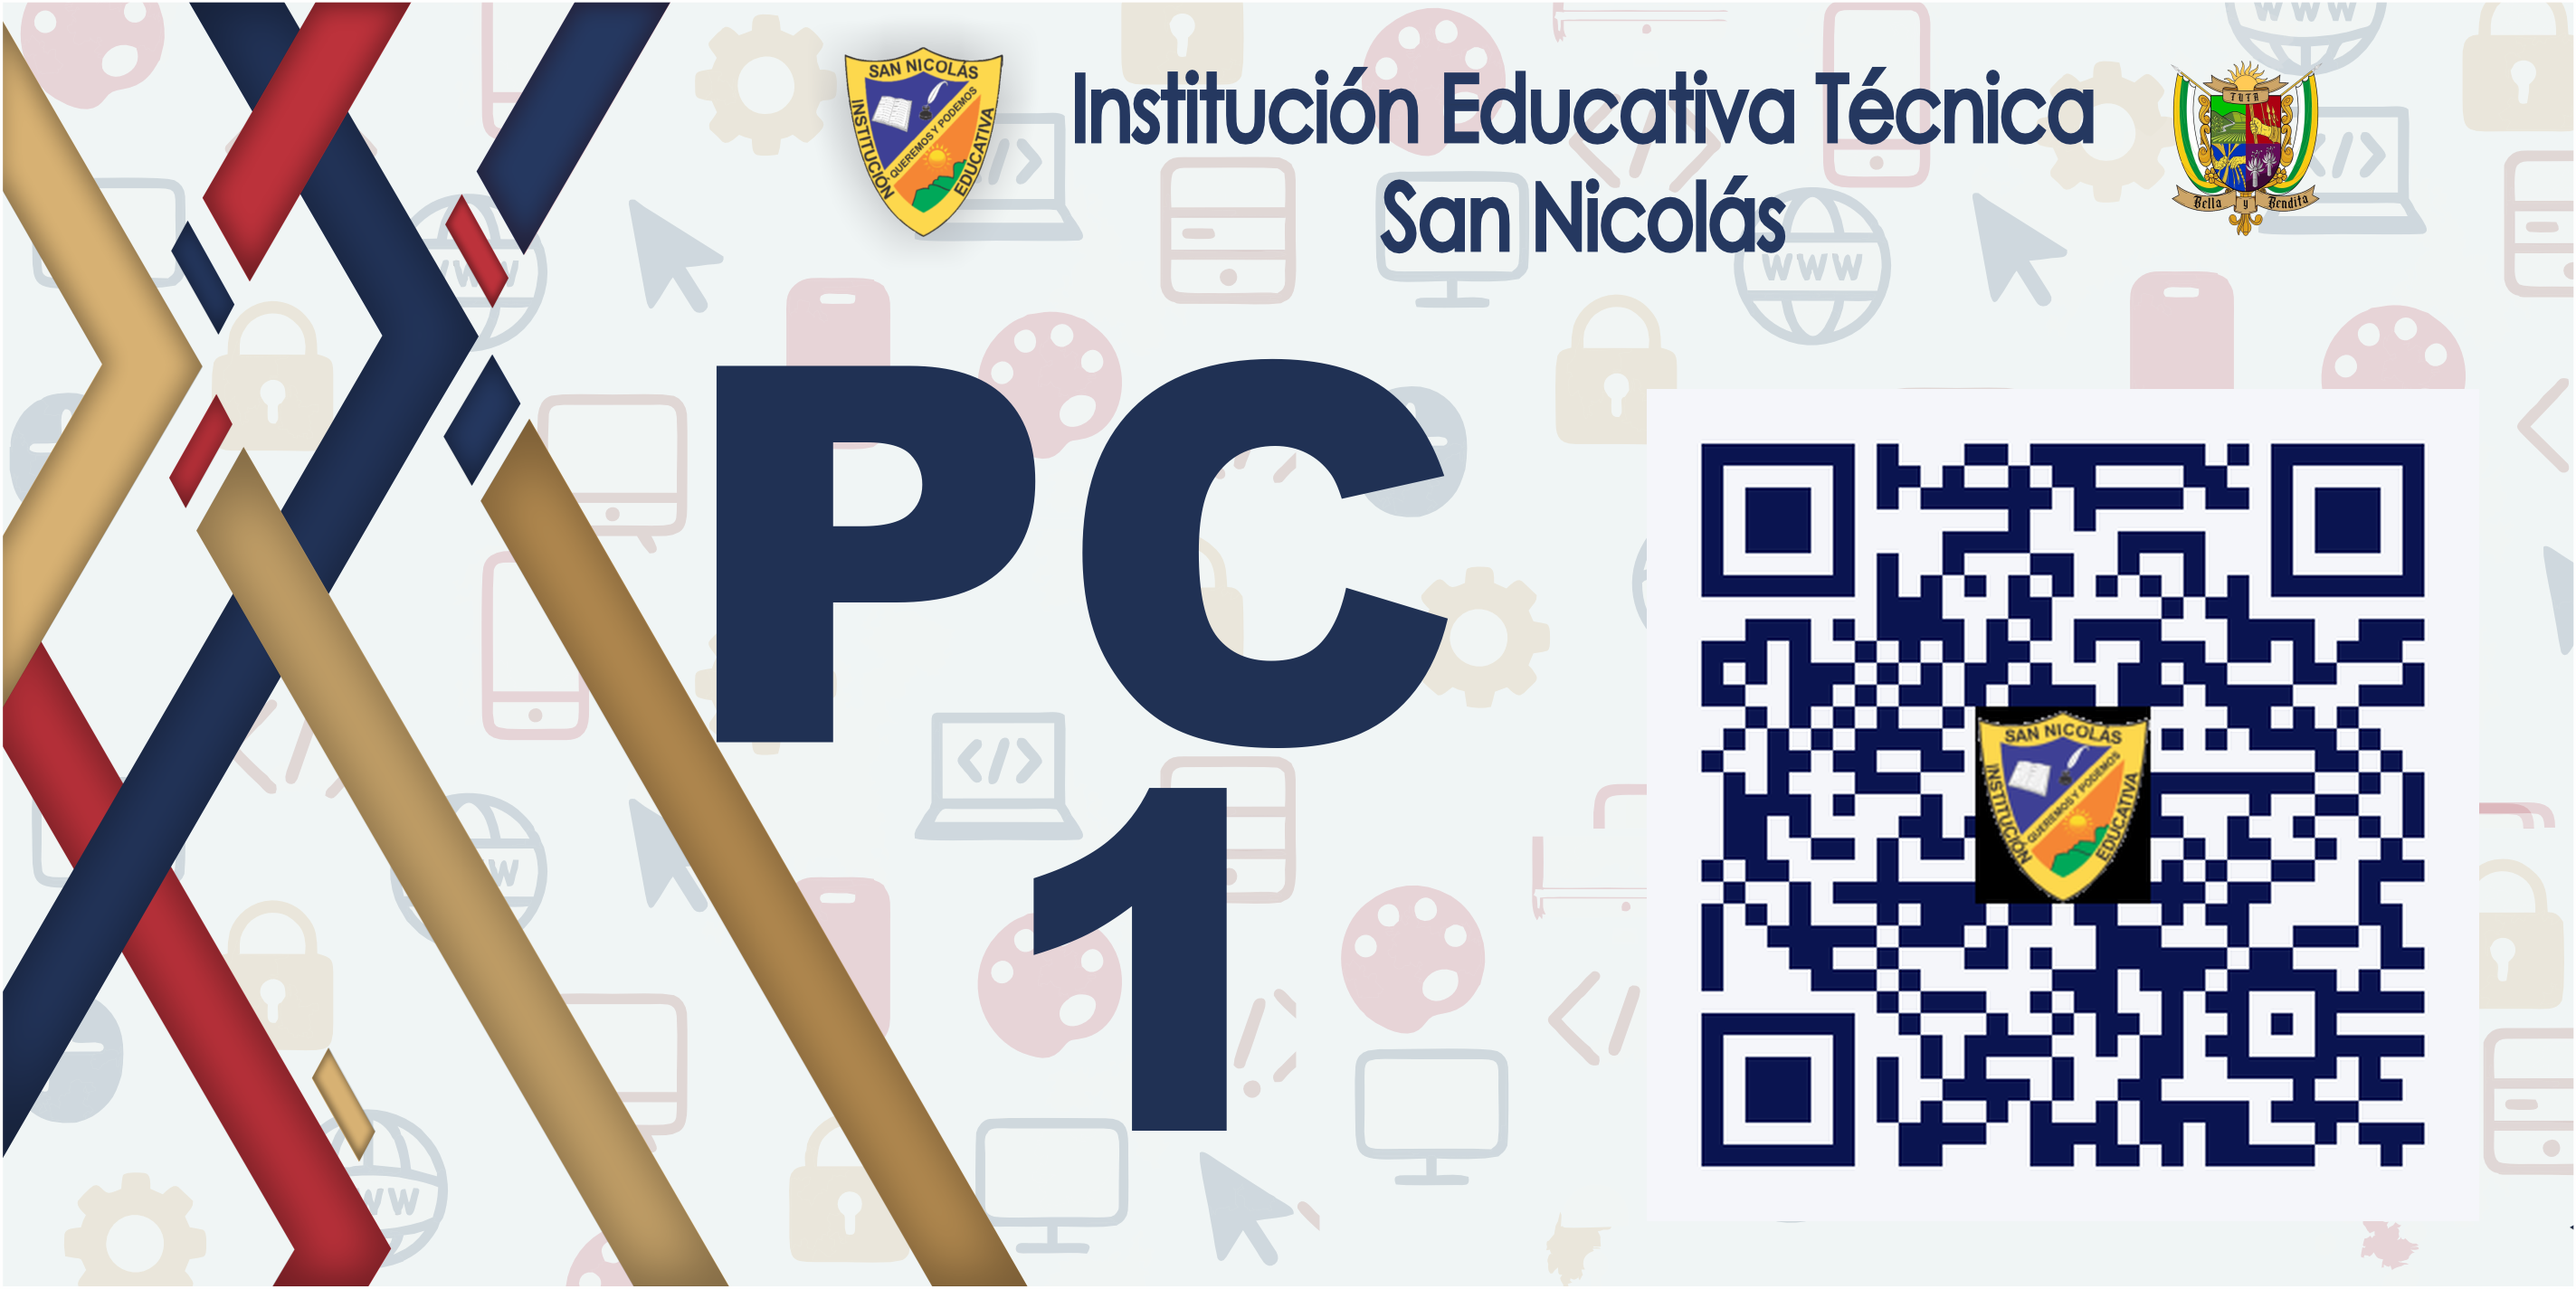
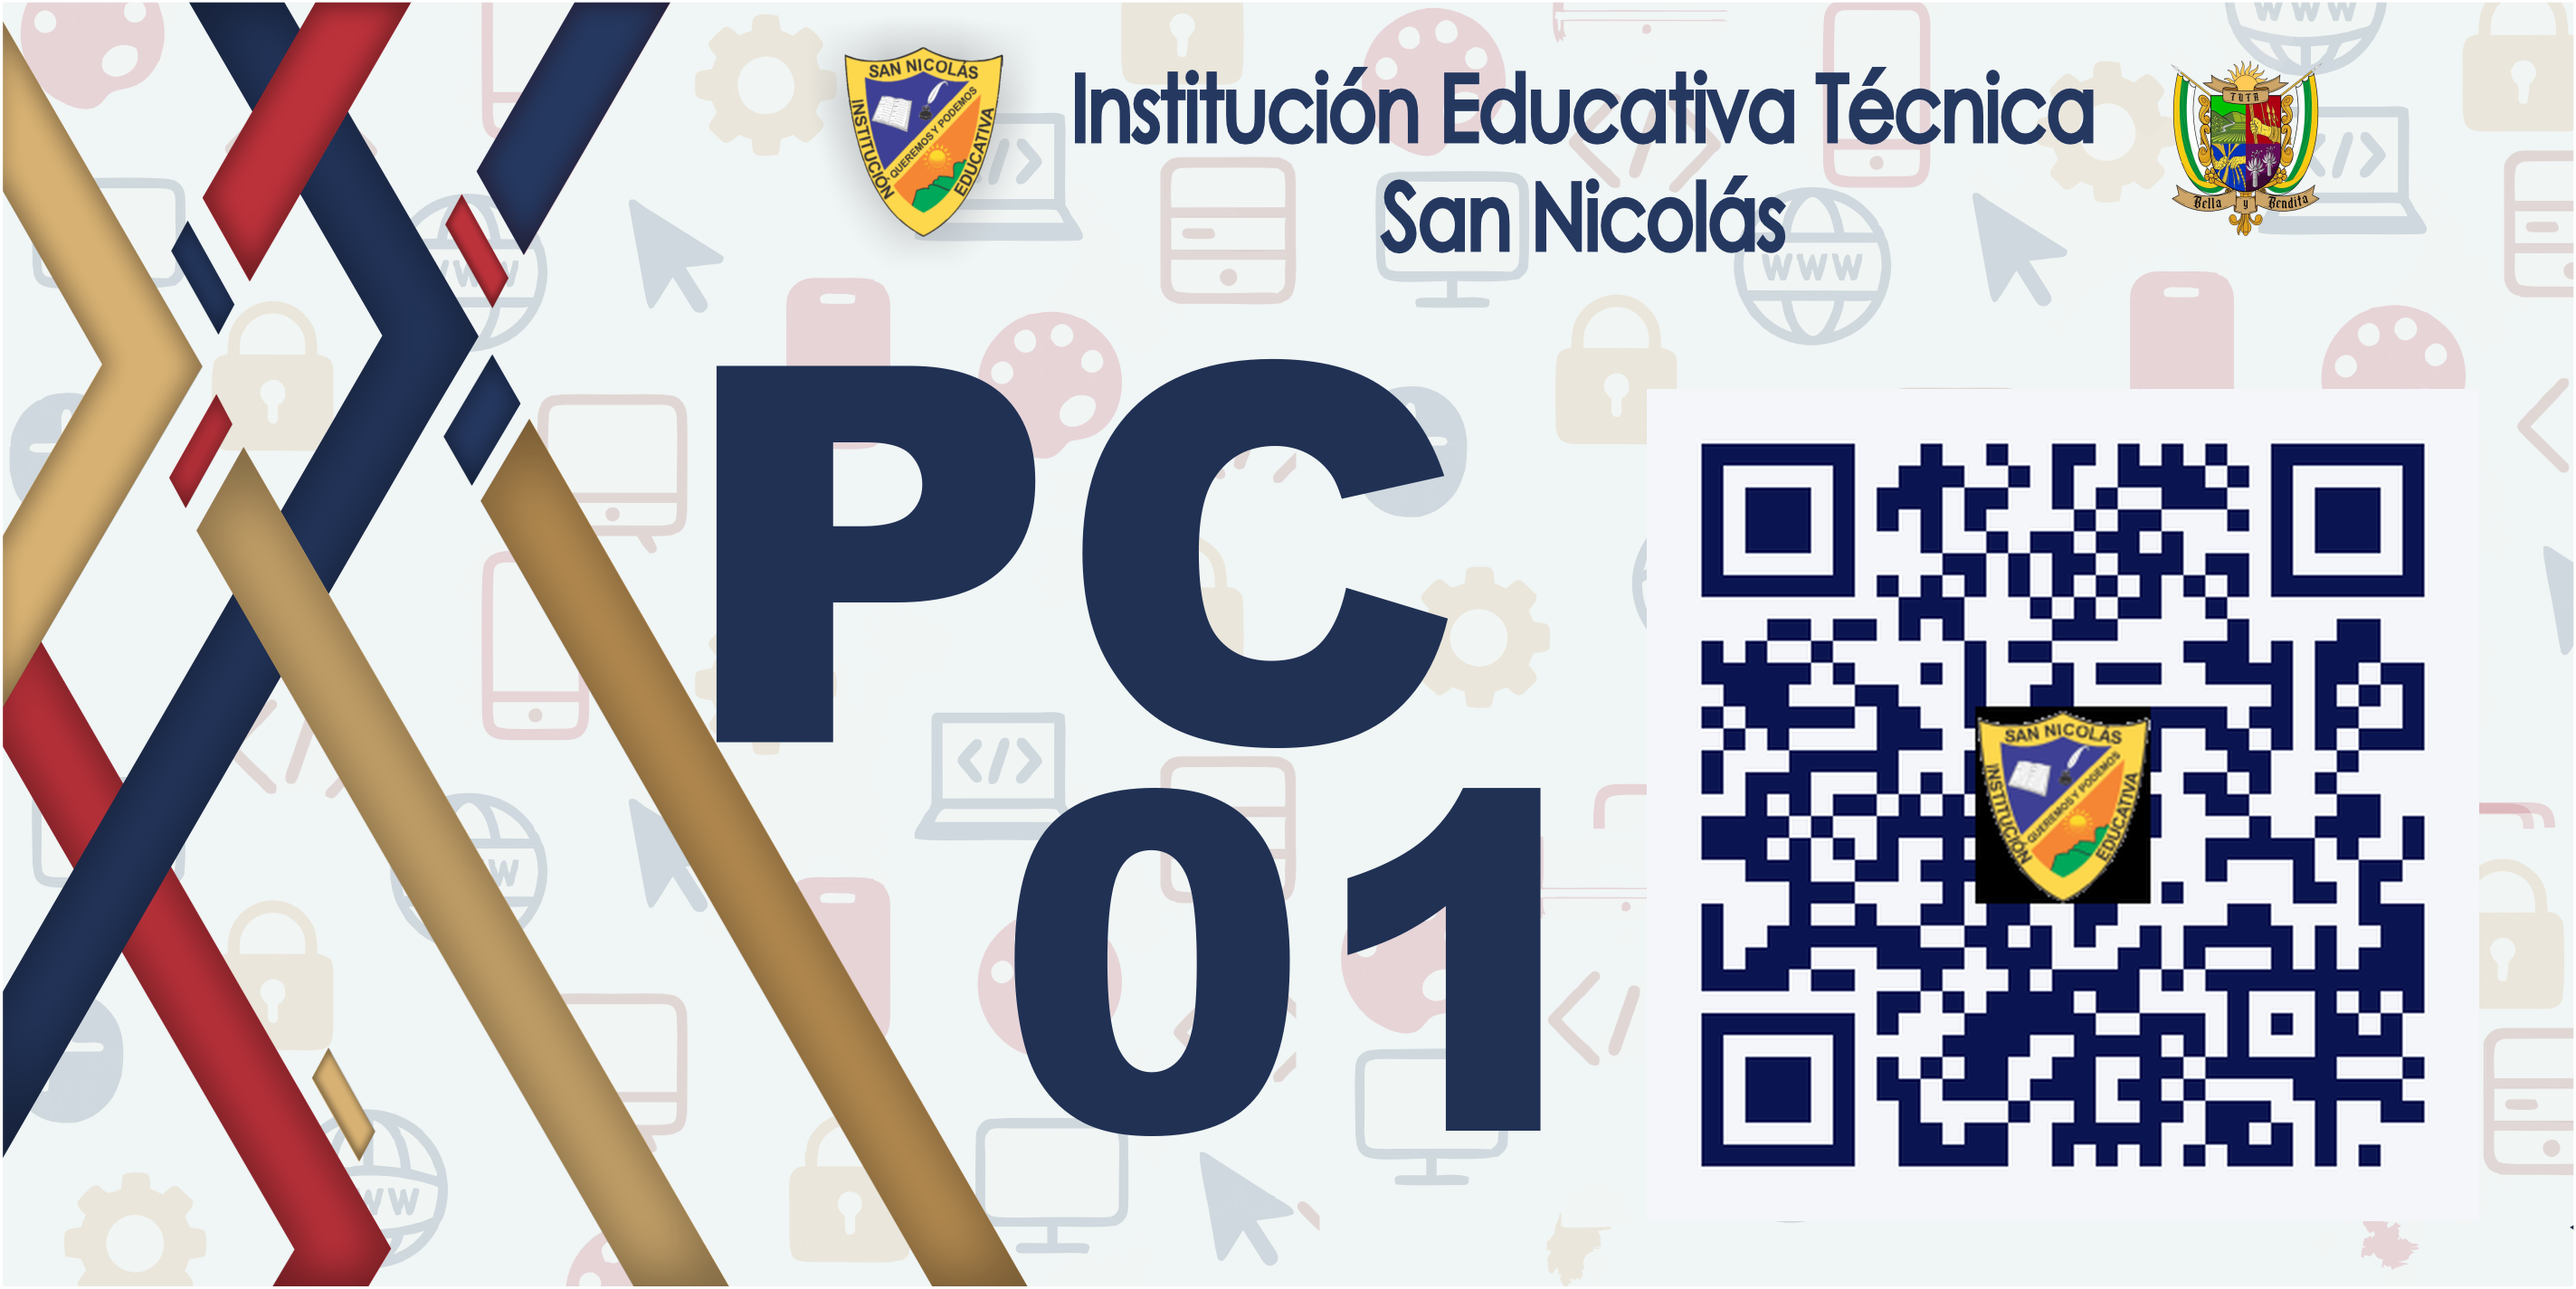
backup

Changed region(s): [[0.6491, 0.3396, 0.9582, 0.9263], [0.3709, 0.5867, 0.6182, 0.8954]]

diff --git a/api/elementos/generar_etiquetas_categoria.php b/api/elementos/generar_etiquetas_categoria.php
@@ -113,7 +113,7 @@ try {
                 throw new Exception("Elemento {$el['codigo']} no tiene qr_token");
             }
 
-            $numero = (string) $el['id_elemento'];
+            $numero = str_pad($index + 1, 2, "0", STR_PAD_LEFT);
 
             $qrBin = generarQRLocal($qrToken, $logoPath);
 
